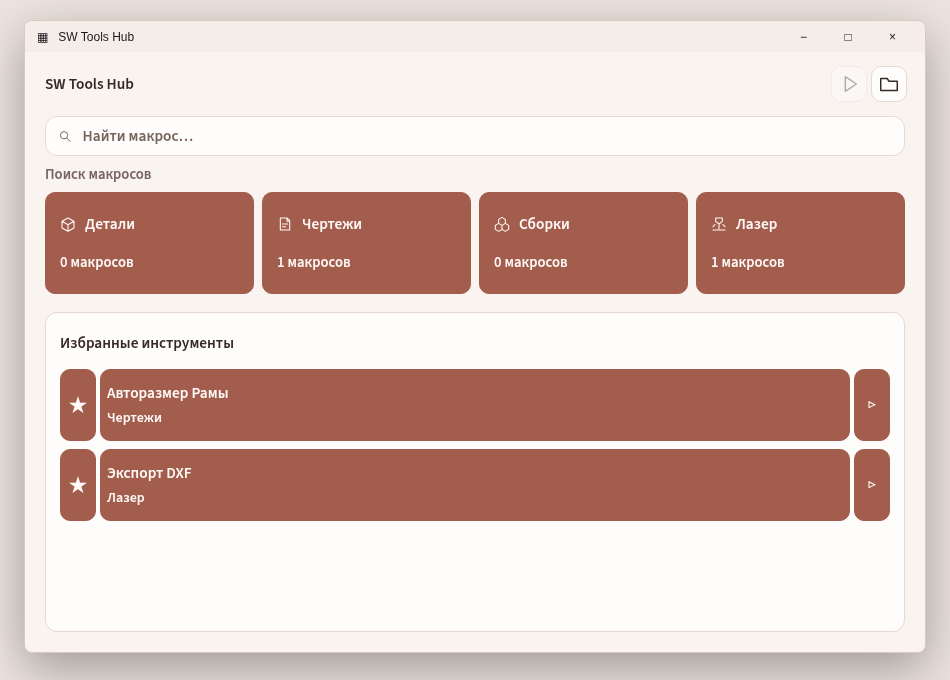
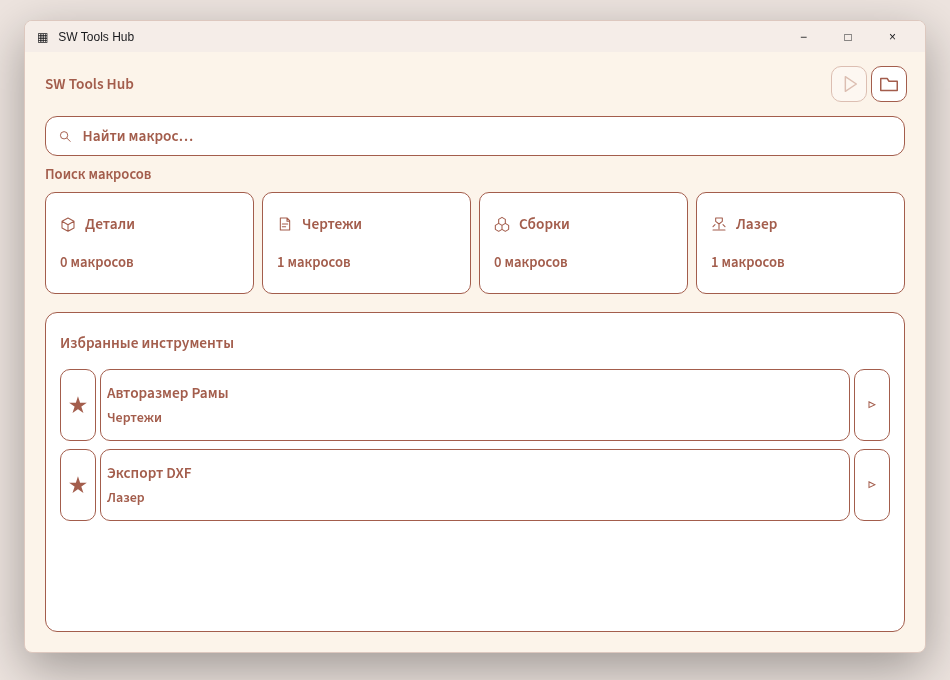
Сделать карточки белыми с коралловой обводкой и текстом

diff --git a/docs/preview/index.html b/docs/preview/index.html
@@ -1,17 +1,17 @@
 <!doctype html><html lang="ru"><meta charset="utf-8"><title>SW Tools Hub — предварительный просмотр</title><style>
 @font-face{font-family:'Source Sans 3';src:url('../../addin/portable/Fonts/SourceSans3-Semibold.ttf') format('truetype');font-weight:600;font-style:normal;font-display:block}
 
-*{box-sizing:border-box}body{margin:0;background:#EDE4DF;font:15.333px 'Source Sans 3','Segoe UI',Arial,sans-serif;font-weight:600;color:#372A26;display:flex;justify-content:center;padding:20px}.window{width:902px;height:633px;background:#FAF4F1;border:1px solid #DDC8BF;border-radius:8px;overflow:hidden;box-shadow:0 16px 50px #0005}.titlebar{font-family:'Segoe UI',Arial,sans-serif;font-weight:400;height:31px;background:#F5EDE8;color:#18191c;display:flex;align-items:center;justify-content:space-between;padding:0 12px;font-size:12px}.titlebar span:last-child{letter-spacing:17px}.app{height:600px;display:flex;flex-direction:column}.header{height:64px;padding:12px 18px 12px 20px;display:flex;align-items:center;justify-content:space-between}strong{font-size:15.333px;font-weight:600}.toolbar{display:flex;gap:4px}button{border-radius:10px;border:1px solid #E7D8D2;font:inherit;cursor:pointer;color:inherit;background:#FFFDFC}.toolbar button{width:36px;height:36px;display:grid;place-items:center}.toolbar button:hover,.tile:hover{background:#8F4F40}svg{width:22px;height:22px;fill:none;stroke:currentColor;stroke-width:1.6;stroke-linejoin:round;stroke-linecap:round}.toolbar .disabled{opacity:.35}.search{height:40px;margin:0 20px 8px;padding:10px 12px;background:#FFFDFC;border:1px solid #E7D8D2;border-radius:12px;display:flex;align-items:center;gap:8px}.search svg{width:15px;height:15px;color:#77645D}.search input{color:#372A26;background:transparent;border:0;outline:none;width:100%;font:inherit}.hint{height:24px;margin:0 20px;color:#77645D;font-size:14.667px}.modules{height:102px;margin:4px 20px 8px;display:grid;grid-template-columns:repeat(4,minmax(0,1fr));gap:8px}.tile{text-align:left;padding:12px 14px;display:flex;flex-direction:column;justify-content:center;gap:18px}.tile .caption{display:flex;gap:9px;align-items:center}.tile svg{width:16px;height:16px}.tile small{font-size:14.667px;color:#77645D}.tile.active{background:#8F4F40}.content{flex:1;min-height:0;margin:10px 20px 20px;padding:20px 14px;background:#FFFDFC;border:1px solid #E7D8D2;border-radius:12px;overflow:auto}h2{font-size:15.333px;margin:0 0 16px;font-weight:600}.empty{line-height:1.7;color:#77645D;margin:0;font-size:14.667px}.status{display:none;height:44px;color:#77645D;font-size:14.667px;padding:4px 20px}.footer{display:none;height:34px;padding:8px 20px;color:#77645D;font-size:14.667px}.tag{font-size:10px;color:#77645D;margin-top:15px}
-.macro-row{display:grid;grid-template-columns:36px minmax(0,1fr) 36px;align-items:stretch;gap:4px;margin:0 0 8px;min-height:72px}.macro-row button{padding:6px;background:#FFFDFC;border-color:#E7D8D2}.macro-name{text-align:left;min-width:0}.macro-name span{display:block;white-space:nowrap;overflow:hidden;text-overflow:ellipsis}.macro-name small{display:block;margin-top:5px;color:#77645D;font:inherit;font-size:14px}.macro-name.selected{background:#8F4F40}.row-play svg{width:17px;height:17px}.row-star{font-size:20px}
+*{box-sizing:border-box}body{margin:0;background:#EDE4DF;font:15.333px 'Source Sans 3','Segoe UI',Arial,sans-serif;font-weight:600;color:#A35D4C;display:flex;justify-content:center;padding:20px}.window{width:902px;height:633px;background:#FCF4EA;border:1px solid #DDC8BF;border-radius:8px;overflow:hidden;box-shadow:0 16px 50px #0005}.titlebar{font-family:'Segoe UI',Arial,sans-serif;font-weight:400;height:31px;background:#F5EDE8;color:#18191c;display:flex;align-items:center;justify-content:space-between;padding:0 12px;font-size:12px}.titlebar span:last-child{letter-spacing:17px}.app{height:600px;display:flex;flex-direction:column}.header{height:64px;padding:12px 18px 12px 20px;display:flex;align-items:center;justify-content:space-between}strong{font-size:15.333px;font-weight:600}.toolbar{display:flex;gap:4px}button{border-radius:10px;border:1px solid #A35D4C;font:inherit;cursor:pointer;color:inherit;background:#FFFFFF}.toolbar button{width:36px;height:36px;display:grid;place-items:center}.toolbar button:hover,.tile:hover{background:#FFF6F0}svg{width:22px;height:22px;fill:none;stroke:currentColor;stroke-width:1.6;stroke-linejoin:round;stroke-linecap:round}.toolbar .disabled{opacity:.35}.search{height:40px;margin:0 20px 8px;padding:10px 12px;background:#FFFFFF;border:1px solid #A35D4C;border-radius:12px;display:flex;align-items:center;gap:8px}.search svg{width:15px;height:15px;color:#A35D4C}.search input{color:#A35D4C;background:transparent;border:0;outline:none;width:100%;font:inherit}.hint{height:24px;margin:0 20px;color:#A35D4C;font-size:14.667px}.modules{height:102px;margin:4px 20px 8px;display:grid;grid-template-columns:repeat(4,minmax(0,1fr));gap:8px}.tile{text-align:left;padding:12px 14px;display:flex;flex-direction:column;justify-content:center;gap:18px}.tile .caption{display:flex;gap:9px;align-items:center}.tile svg{width:16px;height:16px}.tile small{font-size:14.667px;color:#A35D4C}.tile.active{background:#FFF6F0}.content{flex:1;min-height:0;margin:10px 20px 20px;padding:20px 14px;background:#FFFFFF;border:1px solid #A35D4C;border-radius:12px;overflow:auto}h2{font-size:15.333px;margin:0 0 16px;font-weight:600}.empty{line-height:1.7;color:#A35D4C;margin:0;font-size:14.667px}.status{display:none;height:44px;color:#A35D4C;font-size:14.667px;padding:4px 20px}.footer{display:none;height:34px;padding:8px 20px;color:#A35D4C;font-size:14.667px}.tag{font-size:10px;color:#A35D4C;margin-top:15px}
+.macro-row{display:grid;grid-template-columns:36px minmax(0,1fr) 36px;align-items:stretch;gap:4px;margin:0 0 8px;min-height:72px}.macro-row button{padding:6px;background:#FFFFFF;border-color:#A35D4C}.macro-name{text-align:left;min-width:0}.macro-name span{display:block;white-space:nowrap;overflow:hidden;text-overflow:ellipsis}.macro-name small{display:block;margin-top:5px;color:#A35D4C;font:inherit;font-size:14px}.macro-name.selected{background:#FFF6F0}.row-play svg{width:17px;height:17px}.row-star{font-size:20px}
 .header,.search,.hint,.modules{flex-shrink:0}
-.tile,.macro-row button{background:#A35D4C;color:#FFFAF7;border-color:#A35D4C}
-.tile small,.macro-name small{color:#FFFAF7}
-.tile:hover,.tile.active,.macro-row button:hover,.macro-name.selected{background:#8F4F40;border-color:#E9957D}
-.toolbar button{background:#FFFDFC;color:#372A26;border-color:#E7D8D2}
-.toolbar button:hover{background:#FAF4F1;border-color:#E9957D}
-button:focus-visible{outline:2px solid #E9957D;outline-offset:2px}
-.search:focus-within{border-color:#E9957D}
-.search input::placeholder{color:#77645D;opacity:1}
+.tile,.macro-row button{background:#FFFFFF;color:#A35D4C;border-color:#A35D4C}
+.tile small,.macro-name small{color:#A35D4C}
+.tile:hover,.tile.active,.macro-row button:hover,.macro-name.selected{background:#FFF6F0;border-color:#A35D4C}
+.toolbar button{background:#FFFFFF;color:#A35D4C;border-color:#A35D4C}
+.toolbar button:hover{background:#FFF6F0;border-color:#A35D4C}
+button:focus-visible{outline:2px solid #A35D4C;outline-offset:2px}
+.search:focus-within{border-color:#A35D4C}
+.search input::placeholder{color:#A35D4C;opacity:1}
 </style><body><div class="window"><div class="titlebar"><span>▦ &nbsp; SW Tools Hub</span><span>− □ ×</span></div><main class="app"><header class="header"><strong>SW Tools Hub</strong><div class="toolbar"><button class="disabled" title="Выберите макрос для запуска"><svg viewBox="0 0 24 24"><path d="m8 4 12 8-12 8Z"/></svg></button><button title="Выбрать папку библиотеки" onclick="document.getElementById('status').textContent='В приложении откроется системный выбор папки Windows.'"><svg viewBox="0 0 24 24"><path d="M3 6h7l2 3h9v10H3Z"/></svg></button></div></header><div class="search"><svg viewBox="0 0 24 24"><circle cx="10" cy="10" r="6"/><path d="m15 15 5 5"/></svg><input aria-label="Поиск макросов" oninput="render()" placeholder="Найти макрос…"></div><div class="hint">Поиск макросов</div><section class="modules"><button class="tile" onclick="show('Детали',this)"><span class="caption"><svg viewBox="0 0 24 24"><path d="m12 3 9 5v10l-9 5-9-5V8Zm0 10 9-5M3 8l9 5v10"/></svg>Детали</span><small>0 макросов</small></button><button class="tile" onclick="show('Чертежи',this)"><span class="caption"><svg viewBox="0 0 24 24"><path d="M5 3h10l4 4v14H5Zm10 0v5h4M8 12h8M8 16h5"/></svg>Чертежи</span><small>0 макросов</small></button><button class="tile" onclick="show('Сборки',this)"><span class="caption"><svg viewBox="0 0 24 24"><path d="m12 2 5 3v6l-5 3-5-3V5Zm-5 9-5 3v6l5 3 5-3v-6Zm10 0-5 3v6l5 3 5-3v-6Z"/></svg>Сборки</span><small>0 макросов</small></button><button class="tile" onclick="show('Лазер',this)"><span class="caption"><svg viewBox="0 0 24 24"><path d="M7 3h10v5l-5 4-5-4Zm5 9v7M3 21h18M6 13l-3 3m15-3 3 3"/></svg>Лазер</span><small>0 макросов</small></button></section><section class="content"><h2 id="heading">Избранные инструменты</h2><div id="rows"></div><p class="empty" id="empty">Нажмите ☆ рядом с макросом в разделе,<br>чтобы добавить его в избранное.</p></section><div class="status" id="status">Добавьте .swp в папки разделов библиотеки.</div><footer class="footer">0 инструментов · Portable</footer></main></div><script>
 // Данные только для предварительного просмотра: рабочие .swp не добавляются.
 const macros=[{name:'Авторазмер Рамы',category:'Чертежи',favorite:true},{name:'Экспорт DXF',category:'Лазер',favorite:true}];

diff --git a/addin/portable/UiTheme.cs b/addin/portable/UiTheme.cs
@@ -10,15 +10,15 @@ namespace SWToolsHub.Portable
 {
     internal static class UiTheme
     {
-        public static readonly Color Background = Color.FromArgb(250, 244, 241);
-        public static readonly Color Surface = Color.FromArgb(255, 253, 252);
-        public static readonly Color Text = Color.FromArgb(55, 42, 38);
-        public static readonly Color Muted = Color.FromArgb(119, 100, 93);
-        public static readonly Color Card = Color.FromArgb(163, 93, 76);
-        public static readonly Color Selected = Color.FromArgb(143, 79, 64);
+        public static readonly Color Background = Color.FromArgb(252, 244, 234);
+        public static readonly Color Surface = Color.White;
+        public static readonly Color Text = Color.FromArgb(163, 93, 76);
+        public static readonly Color Muted = Color.FromArgb(163, 93, 76);
+        public static readonly Color Card = Color.White;
+        public static readonly Color Selected = Color.FromArgb(255, 246, 240);
         public static readonly Color Accent = Color.FromArgb(233, 149, 125);
-        public static readonly Color OnCard = Color.FromArgb(255, 250, 247);
-        public static readonly Color Border = Color.FromArgb(231, 216, 210);
+        public static readonly Color OnCard = Color.FromArgb(163, 93, 76);
+        public static readonly Color Border = Color.FromArgb(163, 93, 76);
         private static readonly PrivateFontCollection fonts = new PrivateFontCollection();
         private static string fontPath;
         [DllImport("gdi32.dll", CharSet = CharSet.Unicode)] private static extern int AddFontResourceEx(string file, uint flags, IntPtr reserved);
@@ -75,7 +75,7 @@ namespace SWToolsHub.Portable
             var hoverColor = card ? UiTheme.Selected : UiTheme.Background;
             using (var path = UiTheme.Shape(new RectangleF(1, 1, Width - 2, Height - 2), 10))
             using (var fill = new SolidBrush(hovered && Enabled ? hoverColor : BackColor))
-            using (var pen = new Pen(Focused ? UiTheme.Accent : card ? BackColor : UiTheme.Border, Focused ? 2 : 1)) {
+            using (var pen = new Pen(UiTheme.Border, Focused ? 2 : 1)) {
                 e.Graphics.FillPath(fill, path); e.Graphics.DrawPath(pen, path);
             }
             if (Image != null) {

diff --git a/docs/HANDOFF.md b/docs/HANDOFF.md
@@ -1,5 +1,22 @@
 # Продолжение разработки SW Tools Hub
 
+## Белые карточки с коралловой обводкой (9 ноября 2026)
+
+По просьбе пользователя фон сделан немного теплее: #FCF4EA.
+Все карточки, поиск и панель списка — белые (#FFFFFF), текст, иконки
+и обводка — коралловые #A35D4C. Выбор/наведение — лёгкая заливка
+#FFF6F0, фокус — усиленная коралловая обводка. Палитра применена
+к главному окну и диалогу процедуры, компоновка и логика сохранены.
+
+Сборка net48 прошла без ошибок и предупреждений. В браузерном макете
+проверены белый фон карточек, коралловые текст/обводка, тёплый фон окна,
+разделы, поиск, избранное и подписи, 3:2 и компактная ширина.
+Расчётный контраст текста: 4,97:1 на белом, 4,66:1 на выделении,
+4,56:1 на фоне окна. Screenshot обновлён, данные в нём демонстрационные.
+ZIP и SHA-256 пересобраны. WinForms/DPI и COM/VBA на Windows
+после этого изменения в Linux не проверялись.
+
+
 ## Светлая коралловая палитра (9 ноября 2026)
 
 Выбран вариант 4: фон #FAF4F1, карточки #A35D4C, акцент #E9957D.

diff --git a/addin/portable/README.md b/addin/portable/README.md
@@ -1,5 +1,22 @@
 # Переносимое приложение
 
+## Белые карточки с коралловой обводкой (9 ноября 2026)
+
+По просьбе пользователя фон сделан немного теплее: #FCF4EA.
+Все карточки, поиск и панель списка — белые (#FFFFFF), текст, иконки
+и обводка — коралловые #A35D4C. Выбор/наведение — лёгкая заливка
+#FFF6F0, фокус — усиленная коралловая обводка. Палитра применена
+к главному окну и диалогу процедуры, компоновка и логика сохранены.
+
+Сборка net48 прошла без ошибок и предупреждений. В браузерном макете
+проверены белый фон карточек, коралловые текст/обводка, тёплый фон окна,
+разделы, поиск, избранное и подписи, 3:2 и компактная ширина.
+Расчётный контраст текста: 4,97:1 на белом, 4,66:1 на выделении,
+4,56:1 на фоне окна. Screenshot обновлён, данные в нём демонстрационные.
+ZIP и SHA-256 пересобраны. WinForms/DPI и COM/VBA на Windows
+после этого изменения в Linux не проверялись.
+
+
 ## Светлая коралловая палитра (9 ноября 2026)
 
 Выбран вариант 4: фон #FAF4F1, карточки #A35D4C, акцент #E9957D.
